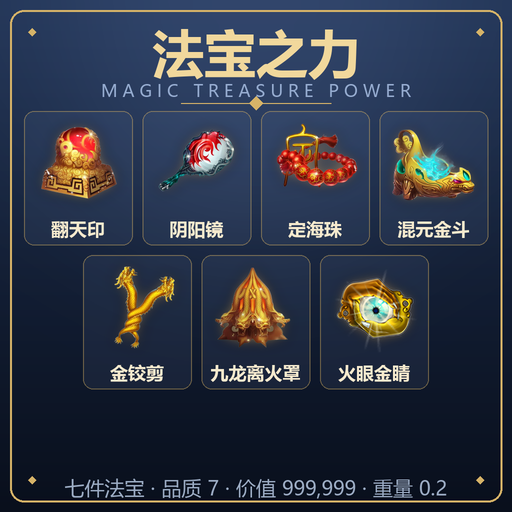
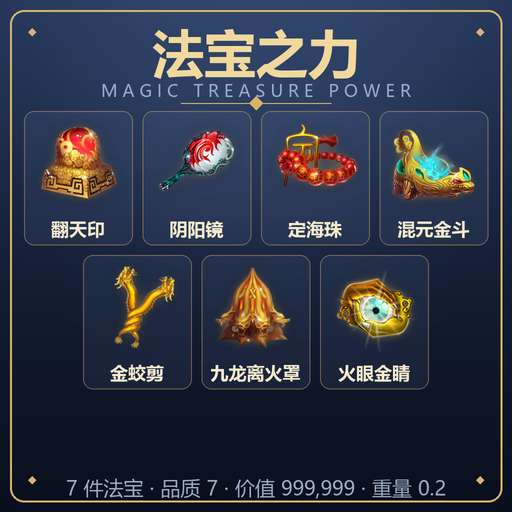
feat(扩展性): 预览图自动读目录、宝箱列表加滚动、任务数量校验
- tools/make_preview.py 改为解析 TreasureCatalog.cs 自动出图，
  布局按数量自适应（最多 4×3=12 件），超过 12 件展示前 12 件并注明总数。
- 法宝宝箱左侧列表套 ScrollRect + RectMask2D，法宝超过 7 件可滚动选择。
- TreasureQuestRegistrar 校验「法宝数 + 1 = 任务数」，不一致时日志警告；
  README 增加「新增法宝 checklist」。
- info.ini 说明测试期火眼金睛 1 元售货机上架，与 config.ini 开关对应。

Changed region(s): [[0.3125, 0.9375, 0.875, 0.9688], [0.125, 0.9375, 0.2812, 0.9688], [0.25, 0.7188, 0.2812, 0.75]]

diff --git a/tools/make_preview.py b/tools/make_preview.py
@@ -1,13 +1,15 @@
 # -*- coding: utf-8 -*-
-"""生成 mod 预览图：七件法宝 4×2 展示。
+"""生成 mod 预览图：从 TreasureCatalog 自动读取法宝，最多 4 列 × 3 行。
 
 用法（在工程文件夹「法宝之力」下）：
     python tools/make_preview.py
 
-输出：法宝之力/preview.png（512×512），图标取自 resources/ 下的 PNG。
+输出：法宝之力/preview.png（512×512）。法宝超过 12 件时只展示前 12 件，
+并在底部注明总数；新增法宝不需要改这个脚本。
 素材本身是 448×448 的透明底图，直接叠加到深色底上。
 """
 
+import re
 from pathlib import Path
 
 from PIL import Image, ImageDraw, ImageFilter, ImageFont
@@ -22,20 +24,31 @@ WHITE_WARM = (246, 234, 206)
 SUB_COLOR = (150, 172, 208)
 FOOT_COLOR = (156, 172, 196)
 
-# 图标：名称、素材、在网格中的位置（按 ID 顺序）
-TREASURES = [
-    ("翻天印", "fty.png"),
-    ("阴阳镜", "yyj.png"),
-    ("定海珠", "dhz.png"),
-    ("混元金斗", "hyjd.png"),
-    ("金铰剪", "jjj.png"),
-    ("九龙离火罩", "jllhz.png"),
-    ("火眼金睛", "hyjj.png"),
-]
-
 ROOT = Path(__file__).resolve().parent.parent
 RES = ROOT / "resources"
 OUT = ROOT / "preview.png"
+CATALOG = ROOT / "src" / "Treasures" / "TreasureCatalog.cs"
+
+# 单张预览最多展示多少件（4 列 × 3 行）
+MAX_ICONS = 12
+
+
+def load_treasures():
+    """从 TreasureCatalog.cs 读 DisplayName / ResourceName，顺序即注册顺序。
+
+    这样以后加法宝只改代码，不用再维护预览脚本里的名单。
+    """
+    text = CATALOG.read_text(encoding="utf-8")
+    pairs = re.findall(
+        r'DisplayName\s*=\s*"([^"]+)"[\s\S]*?ResourceName\s*=\s*"([^"]+)"',
+        text,
+    )
+    if not pairs:
+        raise SystemExit(f"没能从 {CATALOG} 解析出法宝列表")
+    return pairs
+
+
+TREASURES = load_treasures()
 
 S = 2                      # 超采样倍数，先画 1024 再缩小，边缘更干净
 W = H = 512 * S
@@ -125,22 +138,34 @@ def main() -> None:
     draw.line([(W // 2 - half, line_y), (W // 2 + half, line_y)], fill=GOLD + (140,), width=2)
     diamond(draw, W // 2, line_y, 7 * S, GOLD + (220,))
 
-    # 4×2 网格（七件法宝，最后一格留空）
+    # 网格：最多 4 列、3 行；行数由法宝数量决定
     margin = 48
     gap = 20
-    cols, rows = 4, 2
-    cell_w = (W - margin * 2 - gap * (cols - 1)) // cols
-    cell_h = 268
-    grid_top = 222
-    icon_size = 180
-    name_font = font(18 * S)
+    total = len(TREASURES)
+    shown = TREASURES[:MAX_ICONS]
+    cols = 4 if total > 4 else max(1, total)
+    rows = (len(shown) + cols - 1) // cols
 
-    for index, (name, resource) in enumerate(TREASURES):
+    cell_w = (W - margin * 2 - gap * (cols - 1)) // cols
+    grid_top = 222
+    grid_bottom = H - 96
+
+    # 行数越多，格子 / 图标 / 字号越小，保证全部落在标题与底部参数行之间
+    if rows <= 1:
+        cell_h, icon_size, name_pt = 300, 200, 20
+    elif rows == 2:
+        cell_h, icon_size, name_pt = 268, 180, 18
+    else:
+        cell_h, icon_size, name_pt = (grid_bottom - grid_top - gap * (rows - 1)) // rows, 150, 16
+
+    name_font = font(name_pt * S)
+
+    for index, (name, resource) in enumerate(shown):
         row, col = divmod(index, cols)
 
         # 最后一行不满时居中，避免右下角空出一格
         row_start = row * cols
-        row_count = min(cols, len(TREASURES) - row_start)
+        row_count = min(cols, len(shown) - row_start)
         offset = (cols - row_count) * (cell_w + gap) / 2
 
         x = int(margin + offset + col * (cell_w + gap))
@@ -189,9 +214,12 @@ def main() -> None:
 
     # 底部参数行（与物品实际数值保持一致）
     foot_font = font(20 * S, bold=False)
+    foot = f"{total} 件法宝 · 品质 7 · 价值 999,999 · 重量 0.2"
+    if total > MAX_ICONS:
+        foot += f"（预览展示前 {MAX_ICONS} 件）"
     draw.text(
         (W // 2, H - 76),
-        "七件法宝 · 品质 7 · 价值 999,999 · 重量 0.2",
+        foot,
         font=foot_font,
         fill=FOOT_COLOR + (255,),
         anchor="ma",

diff --git a/src/Quest/TreasureBoxUI.cs b/src/Quest/TreasureBoxUI.cs
@@ -58,8 +58,8 @@ namespace MagicTreasurePower.Quests
         private const float PanelWidth = 980f;
 
         /// <summary>
-        /// 七件法宝时列表需要 7 行：7 × 70 + 6 × 4 = 514，
-        /// 面板 660 时列表可用高度 = 660 - 104 - 24 = 532，刚好放得下。
+        /// 面板高度。列表区可用高度 = 660 - 104 - 24 = 532，
+        /// 7 行（7 × 70 + 6 × 4 = 514）刚好一屏；再多的法宝由列表里的 ScrollRect 滚动查看。
         /// </summary>
         private const float PanelHeight = 660f;
 
@@ -234,18 +234,54 @@ namespace MagicTreasurePower.Quests
             ConfigurePressAnimation(close, closeRect);
         }
 
+        /// <summary>
+        /// 左侧法宝列表。外面套一层 ScrollRect：现在 7 件刚好一屏，
+        /// 以后加法宝（≤12 件）超出可视高度时可以直接滚轮 / 拖拽滚动，不用再改布局。
+        /// </summary>
         private static void BuildList(Transform panel, TMP_FontAsset font)
         {
-            GameObject list = new GameObject("List", typeof(RectTransform));
-            list.transform.SetParent(panel, false);
-            var listRect = (RectTransform)list.transform;
-            listRect.anchorMin = new Vector2(0f, 0f);
-            listRect.anchorMax = new Vector2(0.56f, 1f);
-            listRect.offsetMin = new Vector2(26f, 24f);
-            listRect.offsetMax = new Vector2(-6f, -104f);
+            GameObject scrollGo = new GameObject("Scroll", typeof(RectTransform), typeof(ScrollRect));
+            scrollGo.transform.SetParent(panel, false);
 
-            for (int i = 0; i < Entries.Count; i++)
-                BuildRow(list.transform, Entries[i], i, font);
+            var scrollRect = (RectTransform)scrollGo.transform;
+            scrollRect.anchorMin = new Vector2(0f, 0f);
+            scrollRect.anchorMax = new Vector2(0.56f, 1f);
+            scrollRect.offsetMin = new Vector2(26f, 24f);
+            scrollRect.offsetMax = new Vector2(-6f, -104f);
+
+            GameObject viewport = new GameObject("Viewport", typeof(RectTransform), typeof(RectMask2D));
+            viewport.transform.SetParent(scrollGo.transform, false);
+            var viewportRect = (RectTransform)viewport.transform;
+            viewportRect.anchorMin = Vector2.zero;
+            viewportRect.anchorMax = Vector2.one;
+            viewportRect.offsetMin = Vector2.zero;
+            viewportRect.offsetMax = Vector2.zero;
+
+            GameObject content = new GameObject("Content", typeof(RectTransform));
+            content.transform.SetParent(viewport.transform, false);
+            var contentRect = (RectTransform)content.transform;
+            contentRect.anchorMin = new Vector2(0f, 1f);
+            contentRect.anchorMax = new Vector2(1f, 1f);
+            contentRect.pivot = new Vector2(0.5f, 1f);
+            contentRect.offsetMin = Vector2.zero;
+            contentRect.offsetMax = Vector2.zero;
+
+            int count = Entries.Count;
+            float contentHeight = count > 0
+                ? count * RowHeight + (count - 1) * RowSpacing
+                : 0f;
+            contentRect.sizeDelta = new Vector2(0f, contentHeight);
+
+            ScrollRect scroll = scrollGo.GetComponent<ScrollRect>();
+            scroll.content = contentRect;
+            scroll.viewport = viewportRect;
+            scroll.horizontal = false;
+            scroll.vertical = true;
+            scroll.movementType = ScrollRect.MovementType.Clamped;
+            scroll.scrollSensitivity = 30f;
+
+            for (int i = 0; i < count; i++)
+                BuildRow(content.transform, Entries[i], i, font);
         }
 
         private static void BuildRow(Transform parent, TreasureDefinition definition, int index, TMP_FontAsset font)

diff --git a/src/Quest/TreasureQuestRegistrar.cs b/src/Quest/TreasureQuestRegistrar.cs
@@ -5,13 +5,14 @@ using Duckov;
 using Duckov.Quests;
 using Duckov.Utilities;
 using HarmonyLib;
+using MagicTreasurePower.Treasures;
 using SodaCraft.Localizations;
 using UnityEngine;
 
 namespace MagicTreasurePower.Quests
 {
     /// <summary>
-    /// 注册七个法宝任务（全部挂在 Jeff 名下、同时可接可做），
+    /// 注册法宝任务（全部挂在 Jeff 名下、同时可接可做）：每件法宝一个专属任务 + 1 个额外任务，
     /// 每个任务奖励 1 个「法宝宝箱」。
     ///
     /// 原版任务来自 <c>QuestCollection</c> 里的预制体，且 <c>Quest.MeetsPrerequisit</c>
@@ -25,6 +26,12 @@ namespace MagicTreasurePower.Quests
     internal static class TreasureQuestRegistrar
     {
         private const int FirstQuestId = 900001;
+
+        /// <summary>
+        /// 任务数量。约定：<b>每件法宝一个专属任务 + 1 个额外任务（初来乍到）</b>。
+        /// 新增法宝时：在 <see cref="GetTaskSpecs"/> 追加一项、在 <see cref="GetName"/> 追加名字，
+        /// 并把这里 +1。<see cref="RegisterAll"/> 会在数量对不上时打警告。
+        /// </summary>
         private const int QuestCount = 8;
 
         /// <summary>「坚忍之守」单局承受伤害阈值（原版要求）。</summary>
@@ -60,6 +67,15 @@ namespace MagicTreasurePower.Quests
 
             try
             {
+                // 每件法宝一个专属任务 + 1 个额外任务（初来乍到），数量对不上说明加法宝时漏了任务
+                int expected = TreasureCatalog.All.Length + 1;
+                if (QuestCount != expected)
+                {
+                    Diag.Warn(
+                        $"法宝任务数量 {QuestCount} 与「法宝数 {TreasureCatalog.All.Length} + 1」不一致：" +
+                        "新增法宝时请同步追加任务");
+                }
+
                 TreasureBoxItem.Register();
 
                 QuestCollection collection = GameplayDataSettings.QuestCollection;

diff --git a/README.md b/README.md
@@ -200,6 +200,22 @@ mod 目录下的 `config.ini`，首次运行自动生成；用记事本或 **BBM
   `ID | 常量名 | 游戏内名称 | 克隆用原版模板 | 备注`。
 - 区间用满前先与用户确认是否扩展，不要私自改号。
 
+## 新增法宝 checklist
+
+按顺序做完下面这些，法宝就会自动出现在售货机之外的所有入口（法宝页签、法宝宝箱、预览图、升级 / 经验系统）：
+
+1. `src/TreasureIds.cs`：加 ID 常量，并在「物品登记表」补一行。
+2. `resources/`：放图标 PNG（文件名 = 首字母缩写，如 `hyjj.png`），编译时按文件名嵌入。
+3. `src/Treasures/TreasureCatalog.cs`：加一条 `TreasureDefinition`（名称 / 描述 / 效果 / 素材 / 数值 / 标签）。
+4. `src/Treasures/TreasureBalance.cs`：加等级数值数组 + `FormatEffectText` 分支。
+5. 实现能力：简单常驻效果放 `src/Treasures/*Effect.cs`；需要改原版行为的放 `src/Patches/`。
+6. 任务：`TreasureQuestRegistrar` 的 `GetTaskSpecs` / `GetName` 追加一项，`QuestCount` +1
+   （约定「每件法宝一个任务 + 1 个额外任务」；数量不对会在日志里警告）。
+7. 文案：`info.ini` 的法宝一览 / 任务一览 / 预览图说明同步（预览图会自动读目录，不用改脚本）。
+8. 验证：`dotnet build` → 检查日志 `已注册法宝：ID xxxxx` → 进游戏看法宝页签与宝箱列表。
+
+> 法宝槽位固定 6 个：法宝总数超过 6 件时，玩家需要自己取舍携带哪几件，这是设计意图。
+
 ## 前置
 
 - HarmonyLib（工坊 `3589088839`）：必须启用，并排在「法宝之力」之前加载。
@@ -251,7 +267,7 @@ preview.png     （存在时）
 - [x] 扫描原版 Buff 全表并记录到 `docs/原版Buff清单.md`（115 个，含金蛟剪推荐白名单）。
 - [ ] 词条对应的实际效果：概率、数值、生效条件待法宝升级系统确定后接入。
 - [x] 名称与简介的本地化覆盖（`MagicTreasurePower_<ID>` / `_Desc`）。
-- [x] 获取方式：完成法宝任务 → 法宝宝箱七选一（2026-10-22 起**不再上架售货机**）。
+- [x] 获取方式：完成法宝任务 → 法宝宝箱七选一（2026-10-22 起**常规版本不再上架售货机**；0.1.9 测试期火眼金睛按 1 元在基地售货机出售，由 `ShopSellHuoYanJinJing` 控制）。
 - [ ] 确定每件法宝的专属能力（Harmony 补丁或游戏事件）。
 - [x] 品质 7（`quality` + `displayQuality = Q7`）、基础价值 999,999。
 - [x] 标签：自建「法宝」（`MagicTreasure`，金色、显示在标签栏）+ 原版 `Luxury`。

diff --git a/CHANGELOG.md b/CHANGELOG.md
@@ -15,6 +15,15 @@
     买入 / 回购都固定 1 元，库存 99；正式发布前请把 `ShopSellHuoYanJinJing` 改为 `false`。
 - 补全残留文案：法宝宝箱说明从「六件法宝任选」改为「七件法宝任选」。
 
+### 扩展性（为后续加更多法宝做准备）
+
+- `tools/make_preview.py` 改为**直接解析 `TreasureCatalog.cs`**：以后加法宝不用再维护预览脚本里的名单；
+  布局按数量自适应（最多 4 列 × 3 行 = 12 件），超过 12 件只展示前 12 件并在底部注明总数。
+- 法宝宝箱列表外层套 `ScrollRect` + `RectMask2D`：法宝超过 7 件时可以滚轮 / 拖拽滚动，
+  以后加到 12 件也不需要再改布局。
+- `TreasureQuestRegistrar` 增加「每件法宝一个任务 + 1 个额外任务」的数量校验日志，
+  README 增加「新增法宝 checklist」。
+
 ### 修正
 
 - 带路线：目标箱子被销毁（换图 / 清场）时没有收线，可能在旧世界坐标留下一条静态绿线。
